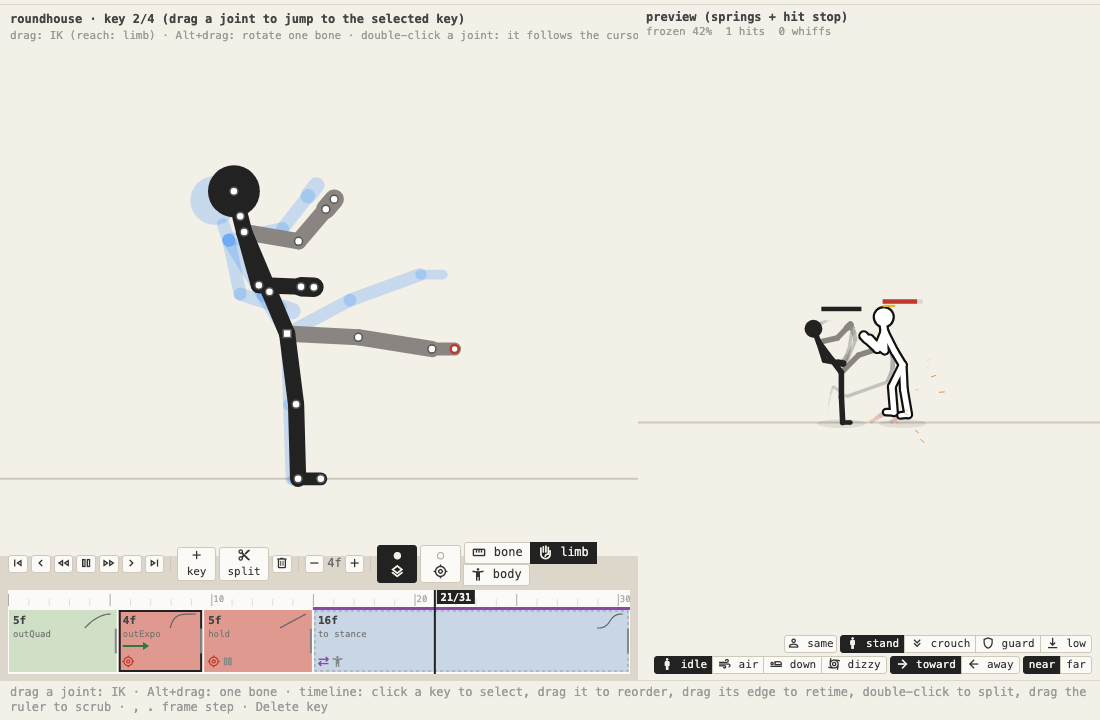
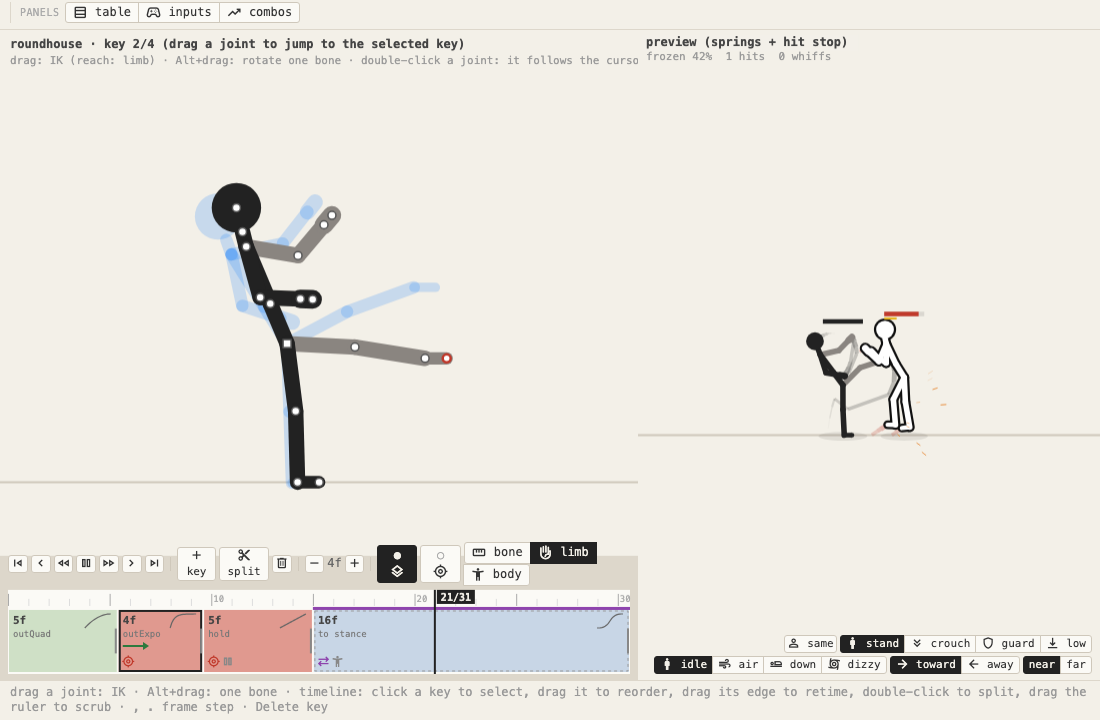
Move the animate move picker into a toolbar move group
- move group: previous / next, the current move opening a wide picker
  popup (cards or list, group, sort, filter focused), copy, delete,
  + loop / layer and the stance
- side panel: Move, Key, then Character (folded)
- cards / list is kept in the layout, apart from the stage panels
- docs, move picker screenshot and browser test

diff --git a/src/editor.js b/src/editor.js
@@ -1,7 +1,7 @@
 'use strict';
 // ---------- animate mode: pose keyframes by dragging joints (IK), retime them on a frame timeline, preview with springs ----------
 const anim = { move: 'jab', key: 1, t: 0, playing: true, onion: true, aim: false, aimId: null, reach: 'limb', drag: null, hover: null, anchor: null, pv: null, hold: false,
-  target: { char: null, stance: 'stand', state: 'idle', facing: 'toward', dist: 'near' }, group: 'type', sort: 'order', filter: '', view: 'cards',
+  target: { char: null, stance: 'stand', state: 'idle', facing: 'toward', dist: 'near' }, group: 'type', sort: 'order', filter: '',
   tfilter: '', tsort: { k: null, dir: 1 }, tscroll: 0, // the move table's filter, sort column and scroll
   cmp: null, cmpView: 'off' }; // the move compared with (compare group): drawn over this one or as filmstrips
 const curMove = () => currentChar().moves[anim.move];
@@ -591,8 +591,8 @@ function makeLayer(kind) {
   pickMove(name);
 }
 // a move as a card: a drawing of its strike (the first active key); hovering plays it
-function moveCard(n, tip) {
-  const cv = h('canvas'), b = h('button', { cls: 'card', tip, onclick: () => pickMove(n) }, cv, h('span', { textContent: n }));
+function moveCard(n, tip, pick = pickMove) {
+  const cv = h('canvas'), b = h('button', { cls: 'card', tip, onclick: () => pick(n) }, cv, h('span', { textContent: n }));
   const m = currentChar().moves[n], ch = withWeapon(currentChar(), m);
   const still = () => drawThumb(cv, ch, keyPose(ch, m, Math.max(0, m.keys.findIndex(k => k.active))));
   let raf = 0;
@@ -698,8 +698,9 @@ function moveTable() {
   requestAnimationFrame(() => { wrap.scrollTop = anim.tscroll || 0; });
   return wrap;
 }
+// the move picker (the move group's popup): the moves as cards or a list, grouped, sorted and filtered
 function moveList() {
-  const list = h('div'), fill = () => {
+  const pick = n => { closePop(); pickMove(n); }, view = () => lay('animate').movesView || 'cards', list = h('div'), fill = () => {
     const ch = currentChar(), q = anim.filter.trim().toLowerCase(), fd = n => frameData(ch.moves[n], 1);
     const names = Object.keys(ch.moves).filter(n => !q || [n, MOVE_GROUPS[anim.group](ch.moves[n], ch, n), ...moveInputs(ch, n)].join(' ').toLowerCase().includes(q));
     const by = { name: (a, b) => a.localeCompare(b), startup: (a, b) => fd(a).startup - fd(b).startup, damage: (a, b) => moveDamage(ch.moves[b]) - moveDamage(ch.moves[a]) }[anim.sort];
@@ -709,19 +710,18 @@ function moveList() {
     const tips = Object.fromEntries(names.map(n => { const m = ch.moves[n], d = fd(n);
       return [n, `${d.startup}f startup · ${d.active} active · ${d.recovery} recovery${m.power ? ` · ${fmt(moveDamage(m))} damage · ${m.height || 'mid'}` : ''} · input: ${moveInputs(ch, n).join(' ') || 'none'}`]; }));
     list.replaceChildren(...[...groups].sort((a, b) => rank(a[0]) - rank(b[0])).flatMap(([g, ns]) =>
-      [g && h('h4', { textContent: g }), anim.view !== 'list' ? h('div', { cls: 'cards' }, ns.map(n => moveCard(n, tips[n])))
-        : h('div', { cls: 'bar' }, seg(ns, () => anim.move, pickMove, tips))]));
+      [g && h('h4', { textContent: g }), view() !== 'list' ? h('div', { cls: 'cards' }, ns.map(n => moveCard(n, tips[n], pick)))
+        : h('div', { cls: 'bar' }, seg(ns, () => anim.move, pick, tips))]));
     if (!names.length) list.replaceChildren(h('div', { cls: 'note', textContent: 'no move matches the filter' }));
-    if (stageOpen() === 'table' || stageOpen() === 'combos') list.replaceChildren(h('div', { cls: 'note', textContent: `the ${stageOpen() === 'table' ? 'move table' : 'combos'} are over the stage` }));
     syncAll();
   };
   fill();
   return [
-    h('div', { cls: 'row', tip: 'How the moves are shown' }, h('span', { textContent: 'view' }), seg(['cards', 'list'], () => anim.view, v => { anim.view = v; unpeek(); panels(); }, VIEW_TIPS)),
+    h('div', { cls: 'row', tip: 'How the moves are shown' }, h('span', { textContent: 'view' }), seg(['cards', 'list'], view, v => { lay('animate').movesView = v; saveLay(); unpeek(); fill(); }, VIEW_TIPS)),
     adv(h('div', { cls: 'row', tip: 'How the moves are grouped' }, h('span', { textContent: 'group' }), seg(Object.keys(MOVE_GROUPS), () => anim.group, v => { anim.group = v; fill(); }, GROUP_TIPS))),
     adv(h('div', { cls: 'row', tip: 'Order within a group' }, h('span', { textContent: 'sort' }), seg(Object.keys(SORT_TIPS), () => anim.sort, v => { anim.sort = v; fill(); }, SORT_TIPS))),
     h('div', { cls: 'row', tip: 'Show only moves whose name, group or input contains this text (e.g. kick, air, qcf)' }, h('span', { textContent: 'filter' }),
-      h('input', { cls: 'macro', value: anim.filter, placeholder: 'name, group or input', oninput: e => { anim.filter = e.target.value; fill(); }, onkeydown: e => e.stopPropagation() })),
+      h('input', { cls: 'macro filter', value: anim.filter, placeholder: 'name, group or input', oninput: e => { anim.filter = e.target.value; fill(); }, onkeydown: e => e.stopPropagation() })),
     list];
 }
 const MOVE_BASIC = ['power', 'knock', 'launch', 'stun', 'damage']; // the rest wait behind "more"
@@ -732,11 +732,17 @@ function moveHeading() {
     vals => edit(def => { const m = def.moves[anim.move]; for (const k in vals) if (vals[k]) m[k] = vals[k]; else delete m[k]; })));
   return el;
 }
-// + layer: a keyframed movement layer for a state of this stance that has none yet
-function layerButton() {
-  const ch = currentChar(), free = Object.keys(LAYERS).filter(k => !ch.moves[loopName(ch, studio.stance, k + 'Layer')]);
-  return free.length ? h('div', { cls: 'bar' }, button(':add: layer :expand_more:', `A keyframed movement layer for the ${ch.stances[studio.stance].name} stance: pick a state; its keys start at the procedural pose of that state and what you change is added on top of the procedural / IK motion while the fighter is in it (the mix slider sets how much; delete it to go back)`,
-    (e, b) => popup(b, h('div', { cls: 'bar', onclick: closePop }, free.map(k => button(k, `${LAYERS[k][0]}: add a ${k} layer`, () => makeLayer(k))))))) : null;
+// + loop / layer: a keyframed idle or walk loop, or a movement layer for a state, for this stance where it has none yet
+function addButton() {
+  const ch = currentChar(), st = ch.stances[studio.stance].name;
+  const loops = ['idle', 'walk'].filter(k => !ch.moves[loopName(ch, studio.stance, k)]), free = Object.keys(LAYERS).filter(k => !ch.moves[loopName(ch, studio.stance, k + 'Layer')]);
+  if (!loops.length && !free.length) return null;
+  return button(':add: :expand_more:', `A keyframed loop or movement layer for the ${st} stance`, (e, b) => popup(b, h('div', { onclick: closePop },
+    loops.length ? h('h4', { textContent: 'loop' }) : null,
+    loops.length ? h('div', { cls: 'bar' }, loops.map(k => button(`${loopName(ch, studio.stance, k)} loop`,
+      `A keyframed ${k} loop for the ${st} stance, made from the procedural ${k}, to edit like a move; it replaces the procedural ${k} in this stance (delete it to go back)`, () => makeLoop(k)))) : null,
+    free.length ? h('h4', { textContent: 'layer' }) : null,
+    free.length ? h('div', { cls: 'bar' }, free.map(k => button(k, `${LAYERS[k][0]}: a ${k} layer. Its keys start at the procedural pose of that state and what you change is added on top of the procedural / IK motion while the fighter is in it (the mix slider sets how much; delete it to go back)`, () => makeLayer(k)))) : null)));
 }
 function movePanel() {
   // the striking bone: the limb ends as buttons, any other bone from the popup or by Shift+clicking its joint
@@ -749,17 +755,7 @@ function movePanel() {
   const bindB = button('', 'Inputs that trigger this move. Click to bind it to other inputs (copies of moves become playable this way).', (e, b) =>
     popup(b, h('div', { cls: 'bar' }, Object.keys(slotsOf(CFG.plane)).map(s => toggle(s, `${SLOT_TIPS[s]} · now: ${curBinds(edChar())[s] || 'none'}`, () => curBinds(edChar())[s] === anim.move, () => toggleBind(s))))));
   reg(bindB, () => { setRich(bindB, boundSlots().join(' ') || 'none (combo only)'); });
-  const head = heading('Moves', 'Pick a move to edit. Copies can be tuned freely; the built-in names are the ones the controls trigger.', 'Enter play/pause · O onion · I aim');
-  head.append(crud({ copy: ['New move copied from this one, under a new name', copyMove], delete: ['Delete this move (only copies)', deleteMove] }));
-  const loops = ['idle', 'walk'].filter(k => !currentChar().moves[loopName(currentChar(), studio.stance, k)]);
-  return [...charPanel(),
-    head,
-    ...stanceRow(),
-    ...moveList(),
-    loops.length ? h('div', { cls: 'bar' }, loops.map(k => button(`:add: ${loopName(currentChar(), studio.stance, k)} loop`,
-      `A keyframed ${k} loop for the ${currentChar().stances[studio.stance].name} stance, made from the procedural ${k}, to edit like a move; it replaces the procedural ${k} in this stance (delete it to go back)`, () => makeLoop(k)))) : null,
-    layerButton(),
-    moveHeading(),
+  return [moveHeading(),
     m().ref ? slider('mix', { min: 0, max: 1, step: 0.05 }, () => m().mix ?? 1, v => setMove('mix', v === 1 ? undefined : v, 'm.mix'),
       'Layer strength: how much of this layer\'s offsets (its keys minus the procedural pose it was made from) is added on top of the procedural / IK motion in a fight. 0 = off, 1 = as keyed') : null,
     h('div', { cls: 'row', tip: 'Striking bones: each end is a strike (in limb mode the whole bone); with several, the one that lands counts, one hit per target. Shift+click a joint in the editor to pick it, ⌘/Ctrl+Shift+click to add or remove it.' },
@@ -777,6 +773,7 @@ function movePanel() {
     ...MOVE_PROPS.map(p => { const r = slider(p.k, p, () => m()[p.k] ?? p.def ?? 0, v => setMove(p.k, v === (p.def ?? 0) ? undefined : v, 'm.' + p.k), p.tip); return MOVE_BASIC.includes(p.k) ? r : adv(r); }),
     h('div', { cls: 'bar' }, Object.entries(MOVE_FLAGS).map(([f, tip]) => toggle(f, tip, () => !!m()[f], v => setMove(f, v || undefined)))),
     ...keyPanel(),
+    ...charPanel(),
   ];
 }
 
@@ -787,8 +784,22 @@ function movesGrp() {
   return grp('moves', 'The character\'s moves: pick one to open in the keyframe editor (or click a move in the table, inputs or combos)', pick);
 }
 const MOVE_PANELS = ['table', 'inputs', 'combos'], moveStage = () => ({ table: moveTable, inputs: inputTable, combos: comboView })[stageOpen()];
+// the move toolbar (animate): previous / next, the move being edited with the picker, its actions and the stance
+function moveGrp() {
+  const ch = currentChar(), names = Object.keys(ch.moves), step = d => pickMove(names[(names.indexOf(anim.move) + d + names.length) % names.length]);
+  const cur = button('', 'The move being edited: click to pick another (cards or a list, grouped, sorted, filtered)', (e, b) => {
+    popup(b, h('div', { cls: 'movepop' }, ...moveList())); pop?.querySelector('.filter').focus();
+  });
+  reg(cur, () => setRich(cur, `${anim.move} :expand_more:`));
+  const st = ch.stances.map(s => s.name);
+  return grp('move', 'The move being edited. Copies can be tuned freely; the built-in names are the ones the controls trigger. Enter play/pause · O onion · I aim',
+    button(':chevron_left:', 'Previous move', () => step(-1), 'mini'), cur, button(':chevron_right:', 'Next move', () => step(1), 'mini'),
+    crud({ copy: ['New move copied from this one, under a new name', copyMove], delete: ['Delete this move (only copies)', deleteMove] }, addButton()),
+    st.length > 1 ? seg(st.map((_, i) => i), () => studio.stance, i => { studio.stance = i; panels(); mode().restart(); },
+      Object.fromEntries(st.map((n, i) => [i, `Stance ${n}: the one the input and loop edits change and previews start in (stances are made in the character tab)`])), i => st[i]) : null);
+}
 function animCtx() {
-  return [movesGrp(), compareGrp(), showGrp(['boxes', 'ghost', 'colours']), panelsGrp(MOVE_PANELS, VIEW_TIPS)];
+  return [moveGrp(), compareGrp(), showGrp(['boxes', 'ghost', 'colours']), panelsGrp(MOVE_PANELS, VIEW_TIPS)];
 }
 const CMP_TIPS = { off: 'No comparison', overlay: 'The compared move drawn over this one in amber, at the same moment',
   strip: 'Filmstrip: this move and the compared one frame by frame on one time scale, tinted by phase (click a frame to go there)' };
@@ -857,7 +868,7 @@ const animMode = {
   render() { clear(); drawAnimEditor(); drawTimeline(); drawCell({ w: anim.pv, label: 'preview (springs + hit stop)' }, anLayout().pv, { plot: false }); },
   ctxBar: animCtx,
   side: movePanel,
-  open: ['character', 'moves', 'move', 'key'],
+  open: ['move', 'key'],
   overlay: () => moveStage() ? [moveStage()()] : [timelineBar(), targetBar()],
   mouse: animMouse,
   key: animKey,

diff --git a/src/docs.js b/src/docs.js
@@ -27,7 +27,7 @@ function guideTopics() {
       demos: ['ai 2v2', 'ai free-for-all', 'ai vs waves'], set: 'Waves' },
     { id: 'character', title: 'The character editor', body: 'Drag a joint to set its bone\'s length and stance angle; drag the hip (the square handle) to move the waist over the feet; select several bones (⌘/Ctrl+click) and every property you change goes to all of them. Add limbs by role (arms, legs, tails, heads), tune each bone\'s stretch, stiffness, follow-through and dangle, and watch the preview fight with it live (the impact preview: the body alone with blow buttons, high, mid, low, sweep…, to watch it fall). The bones button in the panels group lists every bone with every property, sortable and editable; drag a bone\'s id onto another to change which draws on top, click its parent to hang it from another bone; experiment breeds a grid of body variations around the one you click. The panels group in the toolbar (here and in animate) opens the move table, the inputs and the combos over the stage, edited in place (click again, × or Esc closes); a move clicked in them (or picked from edit in the moves group) opens in the keyframe editor.',
       tries: [[':accessibility_new: character', 'Open the character editor', () => setMode('character')]], heads: ['character', 'body'] },
-    { id: 'animate', title: 'The move editor', body: 'A move is a list of keys: each a pose, a duration and an easing. Drag joints to pose a key (IK; Alt rotates one bone), drag its edge on the timeline to retime, double-click to split. Mark keys active (they hit), cancel, invincible, unblockable, armor, catch, warp; set the move\'s power, knockback, launch, height and flags; the preview plays it against a target with springs and hit stop. The move list shows cards or names; the panels group in the toolbar opens the move table (every move\'s frame data, editable), the input table (which input starts what) and the combos (the chain links, plain P / K or with a direction like 6P, as a tree or a table of routes; hover a move to play the combo up to it).',
+    { id: 'animate', title: 'The move editor', body: 'A move is a list of keys: each a pose, a duration and an easing. Drag joints to pose a key (IK; Alt rotates one bone), drag its edge on the timeline to retime, double-click to split. Mark keys active (they hit), cancel, invincible, unblockable, armor, catch, warp; set the move\'s power, knockback, launch, height and flags; the preview plays it against a target with springs and hit stop. The move group in the toolbar steps through the moves and opens the picker (cards or names, grouped, sorted, filtered); the panels group in the toolbar opens the move table (every move\'s frame data, editable), the input table (which input starts what) and the combos (the chain links, plain P / K or with a direction like 6P, as a tree or a table of routes; hover a move to play the combo up to it).',
       tries: [[':timeline: animate', 'Open the move editor', () => setMode('animate')]], heads: ['moves', 'move'] },
     { id: 'tests', title: 'Testing moves', body: 'The tests view (animate tab) plays a move, or every move, against a target in every state: standing, crouching, guarding high or low, in the air, on the floor and dizzy, facing the attacker or turned away, near and far, and against the character itself or every character. Each cell shows H (hit), B (blocked) or · (whiff) and turns red when that is not what should happen: a guard from the front blocks highs and mids, a low guard lows, a high passes over a crouch, only off-the-ground moves hit the floor, and the move\'s own setup must connect. Both fighters must also come back to neutral, with nothing NaN or off the stage. Hover a cell for why, turn on failing only, click a cell to watch it and open it in animate with that exact target. Your scenarios are played through as test cases too.',
       tries: [[':science: tests', 'Open the tests view', () => setMode('tests')]] },

diff --git a/tests/browser.js b/tests/browser.js
@@ -24,7 +24,7 @@ try {
   pickChar('stick'); studio.stance = 0; setMode('animate'); makeLoop('idle'); makeLoop('walk');
   if (!currentChar().moves.idle || currentChar().moves.walk.keys.length !== 8) errs.push('makeLoop');
   // movement layers: + layer makes one at the state's procedural pose (its ref); it groups as layer, has a mix slider, and the + layer list drops it
-  { const lb = () => [...document.querySelectorAll('#side button')].find(b => b.textContent.includes('layer')); lb().click();
+  { const lb = () => document.querySelector('#ctx [data-tip^="A keyframed loop"]'); lb().click();
     [...document.querySelectorAll('.pop button')].find(x => x.textContent === 'crouch').click();
     const m = currentChar().moves.crouchLayer, sl = [...document.querySelectorAll('#side .row')].some(r => r.textContent.startsWith('mix'));
     if (!m || anim.move !== 'crouchLayer' || JSON.stringify(m.keys[0].p) !== JSON.stringify(m.ref) || m.ref.handF === undefined && !Object.keys(m.ref).length || !sl) errs.push('makeLayer ' + [!!m, anim.move, sl]);
@@ -144,6 +144,19 @@ try {
     btn('impact').click(); btn('launcher').click(); const w = creator.w; for (let i = 0; i < 20; i++) w.advance(1/60, NOIN);
     if (!w.a.hidden || w.b.ch !== currentChar() || w.hits !== 1) errs.push('creator impact ' + [w.a.hidden, w.b.ch.name, w.hits]);
     btn('showcase').click(); if (btn('crumple')) errs.push('creator blow buttons stay'); }
+  // animate's move group: the current move opens the picker (filter focused), a card picks and closes it; cards / list is kept in the layout, apart from the stage panels; ‹ › step
+  { setMode('animate'); pickChar('stick'); studio.stance = 0; anim.move = 'jab'; anim.filter = ''; panels();
+    const cur = () => [...document.querySelectorAll('#ctx [data-part="move"] button')].find(b => b.textContent.includes('jab'));
+    cur().click(); const fo = document.activeElement?.classList.contains('filter'), cards = document.querySelectorAll('.pop .movepop .card');
+    [...cards].find(c => c.textContent === 'roundhouse')?.click();
+    if (!fo || !cards.length || anim.move !== 'roundhouse' || document.querySelector('.pop')) errs.push('move picker ' + [fo, cards.length, anim.move]);
+    lay('animate').movesView = 'list'; lay('animate').panel = 'table'; panels(); lay('animate').panel = null; panels();
+    if (lay('animate').movesView !== 'list') errs.push('panel resets the list view');
+    document.querySelector('#ctx [data-part="move"] [data-tip="Next move"]').click(); const nx = anim.move;
+    document.querySelector('#ctx [data-part="move"] [data-tip="Previous move"]').click();
+    if (nx === 'roundhouse' || anim.move !== 'roundhouse') errs.push('move step ' + nx + anim.move);
+    if ([...document.querySelectorAll('#side h3')].map(x => x.textContent).join().indexOf('Character') < 0 || document.querySelector('#side .movepop')) errs.push('animate side');
+    delete lay('animate').movesView; saveLay(); anim.move = 'jab'; panels(); }
   // four tabs: impact is a view of play, gallery of animate, picked in the toolbar's view group
   { setMode('impact'); const tabs = [...document.querySelectorAll('#modes button')], on = tabs.find(b => b.classList.contains('on'));
     if (tabs.length !== 4 || !on?.textContent.includes('play')) errs.push('tabs ' + tabs.length + ' ' + on?.textContent);

diff --git a/index.html b/index.html
@@ -58,7 +58,7 @@
   .charpick { display: flex; align-items: center; gap: 8px; width: 100%; text-align: left; padding: 2px 6px; }
   .charpick canvas { width: 36px; height: 40px; } .charpick .note { margin: 0; } .charpick > span:not(.ic) { flex: 1; display: flex; flex-direction: column; }
   .fpick { display: inline-flex; align-items: center; gap: 4px; } .fpick canvas { width: 20px; height: 22px; }
-  .pop .cards { width: 290px; }
+  .pop .cards { width: 290px; } .pop:has(.movepop) { max-width: none; overflow: hidden; } .pop .movepop { width: 600px; max-height: 70vh; overflow: hidden auto; } .pop .movepop .cards { width: auto; grid-template-columns: repeat(auto-fill, minmax(72px, 1fr)); }
   #palette { position: fixed; inset: 0; z-index: 20; background: #0002; display: flex; justify-content: center; align-items: flex-start; padding-top: 12vh; }
   .pbox { width: min(640px, 90vw); background: #fbfaf6; border: 1px solid #bbb; border-radius: 6px; box-shadow: 0 8px 30px #0003; padding: 8px; }
   .pbox input { width: 100%; box-sizing: border-box; font: inherit; font-size: 15px; padding: 6px 8px; border: 1px solid #ccc; border-radius: 4px; }

diff --git a/tools/screenshots.js b/tools/screenshots.js
@@ -20,6 +20,7 @@ const SHOTS = {
   impact: [`setMode('impact'); panels(); ${run(25)}`, [0, 80, 1100, 600]],
   ragdoll: [`setMode('impact'); lab.impact = 'ragdoll'; build(); panels(); ${run(5)} blow(lab.cells[0].w, 'launcher'); ${run(24)}`, [0, 40, 1100, 640]],
   hip: [`setMode('character'); panels(); creator.hover = 'hip'; ${run(30)}`, [0, 80, 1100, 600]],
+  movepicker: [`setMode('animate'); anim.move = 'roundhouse'; animMode.enter(); panels(); ${run(10)} [...document.querySelectorAll('#ctx [data-part="move"] button')].find(b => b.textContent.includes('roundhouse')).click(); Object.assign(pop.style, { left: '368px', top: '83px', maxHeight: 'none' }); pop.firstChild.style.maxHeight = '570px';`, [340, 40, 660, 630]],
   combos: [`setMode('animate'); lay('animate').panel = 'combos'; panels(); mode().render();`, [0, 80, 1100, 600]],
   movetable: [`setMode('animate'); lay('animate').panel = 'table'; panels(); mode().render();`, [0, 80, 1100, 600]],
   inputs: [`setMode('animate'); lay('animate').panel = 'inputs'; panels(); mode().render();`, [0, 80, 1100, 600]],

diff --git a/docs/modes.md b/docs/modes.md
@@ -9,7 +9,7 @@ The top bar has four tabs: **play**, **grid**, **character** and **animate**. So
 | [play](#play) | fight · [impact](#impact) | fight, train, watch hit reactions |
 | [grid](#grid) | | compare one fight across many settings |
 | [character](#character) | | build a body |
-| [animate](#animate) | cards · list · [gallery](#gallery) · [tests](#tests) | build moves, check them all |
+| [animate](#animate) | [gallery](#gallery) · [tests](#tests) | build moves, check them all |
 
 ## Play
 
@@ -192,7 +192,7 @@ The **panels** group → **bones** puts every bone in a table over the stage: id
 
 ### Moves
 
-The **panels** group in the toolbar (here and in animate) opens the move table, the inputs and the combos over the stage; here also the **bones** table. Click it again, × or Esc to close; each tab keeps its own open panel. A move clicked in them (or picked from **edit** in the **moves** group) opens in animate. See [Editing](editing.md).
+The **panels** group in the toolbar (here and in animate) opens the move table, the inputs and the combos over the stage; here also the **bones** table. Click it again, × or Esc to close; each tab keeps its own open panel. A move clicked in them (or picked from **edit** in the **moves** group; in animate, from the **move** group) opens in animate. See [Editing](editing.md).
 
 ## Animate
 
@@ -243,9 +243,22 @@ A live preview with springs and hit stop, against a **target**:
 - idle, in the air, lying or dizzy
 - facing toward or away
 
-### The move list
+### The move group
 
-- **cards** (a drawing of each move's strike; hover plays it) or **list** (just names).
+The toolbar's **move** group holds the move being edited:
+
+- **‹ ›** step to the previous or next move.
+- **The move's name** opens the picker (below), with the filter ready to type in.
+- **copy** and **delete** (copies only), and **+** for a keyframed idle or walk loop or a movement layer of the stance.
+- **The stance**, when the character has more than one (stances are made in the character tab).
+
+The side panel holds the move's settings, then the key's, then the character (folded).
+
+![The move picker](img/movepicker.png)
+
+The picker shows the moves as:
+
+- **cards** (a drawing of each move's strike; hover plays it) or **list** (just names); the choice is kept in the layout.
 - **group** by type, striking limb, height, stance or **fighting style**: boxing, karate, muay thai, capoeira, kung fu, taekwondo, wrestling; the rest are basic.
 - **sort** by order, name, startup or damage.
 - **filter** by name, group or input.

diff --git a/docs/fighting.md b/docs/fighting.md
@@ -396,7 +396,7 @@ Feet settings: **plant**, **plantStep**, **plantStepT**, **plantLift**; off by d
 - Walking back takes shorter steps with the guard up.
 - A four-legged character trots on diagonal pairs.
 - **walk & idle** in character tunes stride, lift, arm swing, lean, the idle style and amount, and breathing (group buttons, experiment).
-- **+ idle loop / + walk loop** in animate turn the procedural cycle into keyframes to edit like a move. A move named **idle** or **walk** replaces the procedural one (**craneIdle** / **craneWalk** in a stance named crane); delete it to go back.
+- **+ → idle loop / walk loop** in animate (the move group) turn the procedural cycle into keyframes to edit like a move. A move named **idle** or **walk** replaces the procedural one (**craneIdle** / **craneWalk** in a stance named crane); delete it to go back.
 
 ## Planes: 2D and 2.5D
 
@@ -423,7 +423,7 @@ The **plane** setting (lanes and belt are 2.5D):
 
 - A stance's key switches to it: S+G, ↓ S+G, → S+G or ← S+G, picked under the stance buttons. Pressed again, it goes back to main. Stances sharing a key take turns. Saved K+G keys become S+G.
 - Each stance has its own pose, its own binds over the main ones, and its own idle / walk loops.
-- Edit one by picking the stance above the stance pose (character) or above the move list (animate). **group: stance** (and the table's stance column) shows which moves each stance adds.
+- Edit one by picking the stance above the stance pose (character) or in the move group (animate). **group: stance** (and the table's stance column) shows which moves each stance adds.
 - More preset poses: southpaw, muay thai, tiger, crane, sumo, drunken.
 
 Every built-in has a second stance in a fighting style, with that style's moves:

diff --git a/docs/editing.md b/docs/editing.md
@@ -8,7 +8,7 @@ Building fighters and their movesets. The editors themselves (dragging joints, t
 |---|---|
 | [Characters](#characters) | side panel in character and animate |
 | [Moves and inputs](#moves-and-inputs) | the move table over the stage |
-| [Movement layers](#movement-layers) | animate → + layer |
+| [Movement layers](#movement-layers) | animate → move group → + → layer |
 | [Input table](#input-table) | the **moves** group → inputs |
 | [Combos](#combos) | the **moves** group → combos |
 
@@ -111,7 +111,7 @@ The **panels** group → **table** puts every move in a table over the stage: ty
 
 ## Movement layers
 
-**animate → + layer.** Every movement state can get a keyframed layer on top of its procedural / IK motion.
+**animate → move group → + → layer.** Every movement state can get a keyframed layer on top of its procedural / IK motion.
 
 **States:** crouch, rise, fall, flip, run, dash, backDash, backWalk, airDash, guard, hurt, tumble, lying, dizzy, turn.
 
@@ -119,7 +119,7 @@ The **panels** group → **table** puts every move in a table over the stage: ty
 - Its keys start at the state's procedural pose (its ref).
 - In a fight, its keys play (looping) from the moment the state begins, and their offsets from the ref are added to the procedural pose.
 - **mix** sets how much: 0 = off, 1 = as keyed. Back walk and turn fade in by speed, or by how far through the turn.
-- Layers group as **layer** in the move list. Delete one to go back.
+- Layers group as **layer** in the move picker. Delete one to go back.
 
 ## Input table
 
